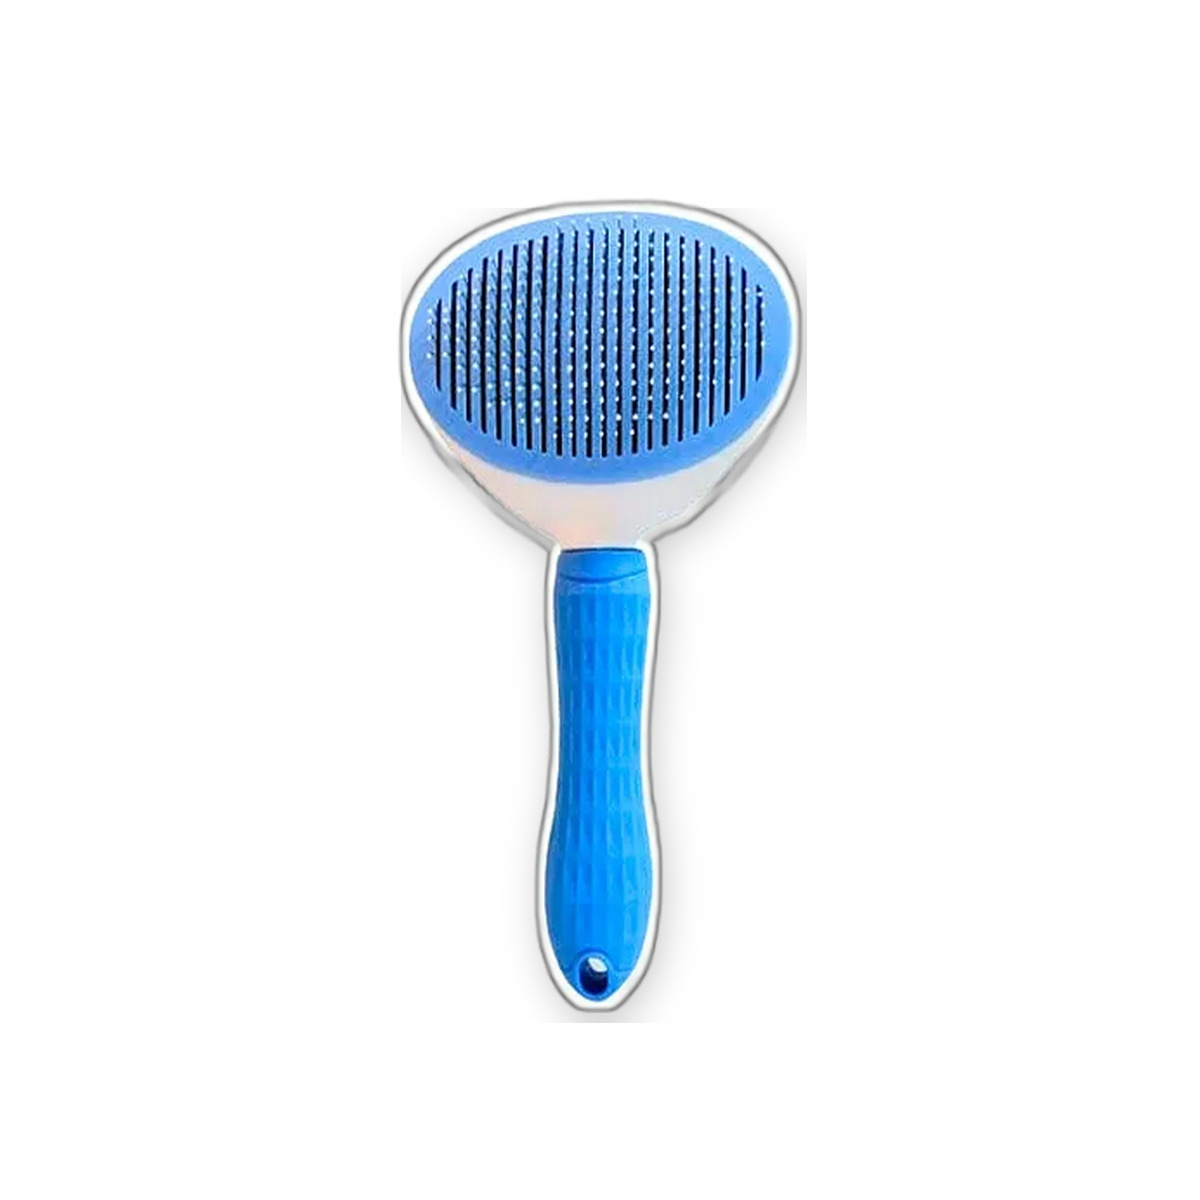
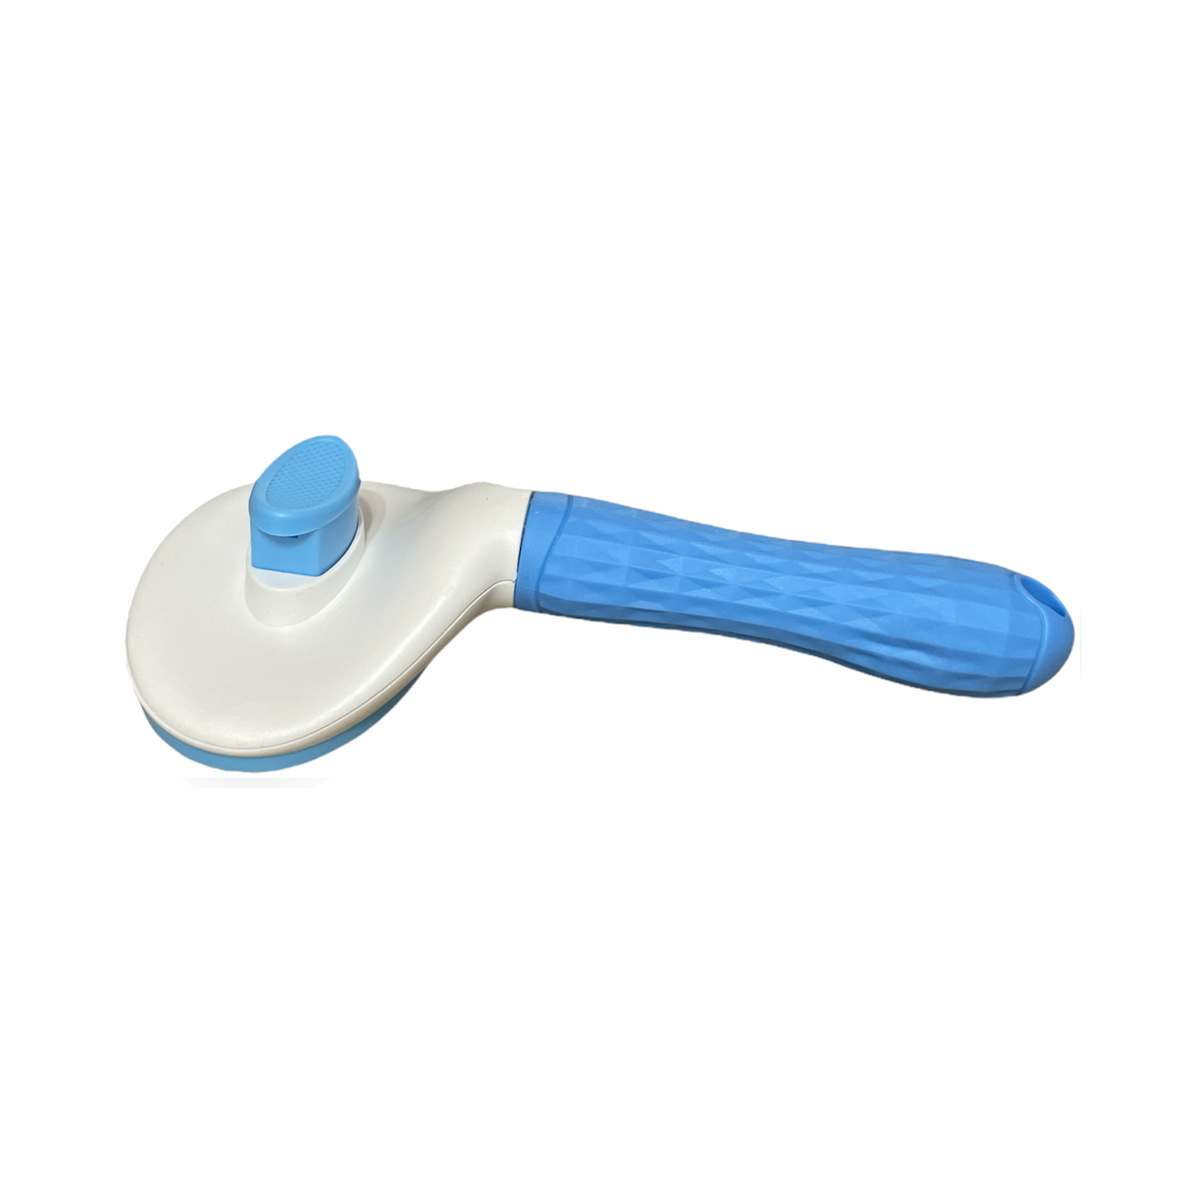
chore(shop): remake p289 CleanPet brush packshots + w4-v4

Changed region(s): [[0.0925, 0.1542, 0.8942, 0.8633]]

diff --git a/packages/api/src/data/shop-batch-multi-wave4-products.selftest.ts b/packages/api/src/data/shop-batch-multi-wave4-products.selftest.ts
@@ -1,5 +1,5 @@
 /**
- * Shop Batch-multi wave 4/5 — 10 SKUs, zero margin, 3-angle batch-multi-w4-v3 galleries.
+ * Shop Batch-multi wave 4/5 — 10 SKUs, zero margin, 3-angle batch-multi-w4-v4 galleries.
  * Run: npx tsx src/data/shop-batch-multi-wave4-products.selftest.ts
  */
 import assert from 'node:assert/strict';
@@ -73,7 +73,7 @@ async function main() {
   assert.equal(seed.SHOP_BATCH_MULTI_WAVE4_PRODUCTS[8]?.slug, 'grooming-mojan-pet-brush');
   assert.equal(seed.SHOP_BATCH_MULTI_WAVE4_PRODUCTS[9]?.id, 'p289');
   assert.equal(seed.SHOP_BATCH_MULTI_WAVE4_PRODUCTS[9]?.slug, 'grooming-dog-shedding-brush-hair-release-button');
-  assert.equal(seed.SHOP_BATCH_MULTI_WAVE4_CACHE_BUST, 'batch-multi-w4-v3');
+  assert.equal(seed.SHOP_BATCH_MULTI_WAVE4_CACHE_BUST, 'batch-multi-w4-v4');
   assert.ok(
     !seed.SHOP_BATCH_MULTI_WAVE4_PRODUCTS.some((p) => (HELD_SHOP_SLUGS as readonly string[]).includes(p.slug)),
     'no held slugs remain in batch-multi wave 4 products'
@@ -163,7 +163,7 @@ async function main() {
   for (const row of rows) {
     assert.equal(row.price_toman, EXPECTED_PRICE[row.slug], `${row.slug} exact MANIFEST price`);
     assert.equal(row.cost_toman, row.price_toman, `${row.slug} margin 0`);
-    assert.match(row.image, new RegExp(`/pepito/uploads/${row.slug}\\.jpg\\?v=batch-multi-w4-v3$`));
+    assert.match(row.image, new RegExp(`/pepito/uploads/${row.slug}\\.jpg\\?v=batch-multi-w4-v4$`));
     assert.equal(row.badge, 'new');
     assert.equal(Number(row.featured), 1);
     assert.equal(Number(row.in_stock), 1);
@@ -177,8 +177,8 @@ async function main() {
       .filter(Boolean);
     assert.equal(gallery.length, 3, `${row.slug} stores 3 gallery URLs`);
     assert.equal(gallery[0], row.image, `${row.slug} first gallery src is cover`);
-    assert.ok(gallery[1]?.includes(`${row.slug}-2.jpg?v=batch-multi-w4-v3`), `${row.slug} angle 2`);
-    assert.ok(gallery[2]?.includes(`${row.slug}-3.jpg?v=batch-multi-w4-v3`), `${row.slug} angle 3`);
+    assert.ok(gallery[1]?.includes(`${row.slug}-2.jpg?v=batch-multi-w4-v4`), `${row.slug} angle 2`);
+    assert.ok(gallery[2]?.includes(`${row.slug}-3.jpg?v=batch-multi-w4-v4`), `${row.slug} angle 3`);
     assert.ok('__titleEn' in params, `${row.slug} stores titleEn key`);
     if (NO_INVENTED_WEIGHT.has(row.slug)) {
       assert.equal(params['وزن'], undefined, `${row.slug} must not invent وزن`);
@@ -194,8 +194,8 @@ async function main() {
     .all() as Array<{ slug: string }>;
   assert.equal(cats.length, 3, 'wave-4 categories are seeded');
 
-  const bust = readFileSync(join(repoRoot, 'tmp/cache-bust-shop-batch-multi-w4-v3'), 'utf8');
-  assert.match(bust, /batch-multi-w4-v3/, 'cache-bust marker present');
+  const bust = readFileSync(join(repoRoot, 'tmp/cache-bust-shop-batch-multi-w4-v4'), 'utf8');
+  assert.match(bust, /batch-multi-w4-v4/, 'cache-bust marker present');
 
   const imageNames = SHOP_BATCH_MULTI_WAVE4_SLUGS.flatMap((slug) => [
     `${slug}.jpg`,

diff --git a/packages/web/src/data/shopGallery.selftest.ts b/packages/web/src/data/shopGallery.selftest.ts
@@ -151,9 +151,9 @@ for (const [id, slug, price] of batchMultiW4) {
   assert.equal(item.priceToman, price, `${id} MANIFEST price`);
   const shots = productGallery(item);
   assert.equal(shots.length, 3, `${id} gallery has 3 unique angles`);
-  assert.ok(shots[0].includes(`${slug}.jpg?v=batch-multi-w4-v3`), `${id} front is batch-multi-w4-v3`);
-  assert.ok(shots[1].includes(`${slug}-2.jpg?v=batch-multi-w4-v3`), `${id} angle 2 is batch-multi-w4-v3`);
-  assert.ok(shots[2].includes(`${slug}-3.jpg?v=batch-multi-w4-v3`), `${id} angle 3 is batch-multi-w4-v3`);
+  assert.ok(shots[0].includes(`${slug}.jpg?v=batch-multi-w4-v4`), `${id} front is batch-multi-w4-v4`);
+  assert.ok(shots[1].includes(`${slug}-2.jpg?v=batch-multi-w4-v4`), `${id} angle 2 is batch-multi-w4-v4`);
+  assert.ok(shots[2].includes(`${slug}-3.jpg?v=batch-multi-w4-v4`), `${id} angle 3 is batch-multi-w4-v4`);
   assert.doesNotMatch(shots.join(' '), /purple|5c4d91|بنفش/i, `${id} gallery has no purple asset`);
 }
 assert.ok(getProduct('cat-accessories-hannapet-double-wooden-bowl-stand'), 'Hannapet wooden bowl stand is in catalog');

diff --git a/packages/api/src/data/shop-batch-multi-wave4-products.ts b/packages/api/src/data/shop-batch-multi-wave4-products.ts
@@ -2,7 +2,7 @@
  * PetDate shop Batch-multi wave 4/5 — 10 live SKUs (p280–p289).
  * Additive, idempotent upsert by slug. Margin 0 (cost_toman = price_toman).
  * Seller copy is پت دیت شاپ only. Do not invent missing weights.
- * Gallery cache-bust is batch-multi-w4-v3 (wave 1–3 stay on their own busts).
+ * Gallery cache-bust is batch-multi-w4-v4 (wave 1–3 stay on their own busts).
  * Slug typo is historical: hannapet-silicone-h-harness-sizr-m (sizr not size).
  */
 import { getDb } from '../db';
@@ -10,7 +10,7 @@ import { withShopImagesParam } from './shop-product-images';
 import { HELD_SHOP_SLUGS, SHOP_BATCH_MULTI_WAVE4_SLUGS } from './shop-zero-margin-slugs';
 
 const P = '/pepito/uploads';
-export const SHOP_BATCH_MULTI_WAVE4_CACHE_BUST = "batch-multi-w4-v3";
+export const SHOP_BATCH_MULTI_WAVE4_CACHE_BUST = "batch-multi-w4-v4";
 
 function multiGallery(slug: string): { image: string; images: string[] } {
   const images = [

diff --git a/packages/api/src/data/shop-live-catalog.selftest.ts b/packages/api/src/data/shop-live-catalog.selftest.ts
@@ -377,7 +377,7 @@ async function main() {
   );
   assert.match(
     String(p289.image),
-    /grooming-dog-shedding-brush-hair-release-button\.jpg\?v=batch-multi-w4-v3$/
+    /grooming-dog-shedding-brush-hair-release-button\.jpg\?v=batch-multi-w4-v4$/
   );
   assert.match(
     String(p299.image),

diff --git a/packages/web/src/data/shopBatchMultiWave4Products.ts b/packages/web/src/data/shopBatchMultiWave4Products.ts
@@ -1,7 +1,7 @@
 import type { ShopProduct } from './shopCatalog';
 
 const P = '/pepito/uploads';
-const V = "batch-multi-w4-v3";
+const V = "batch-multi-w4-v4";
 
 function gallery(slug: string): { image: string; images: string[] } {
   const images = [

diff --git a/scripts/gen-shop-batch-multi-wave4.py b/scripts/gen-shop-batch-multi-wave4.py
@@ -283,7 +283,7 @@ def write_api() -> None:
  * PetDate shop Batch-multi wave 4/5 — 10 live SKUs (p280–p289).
  * Additive, idempotent upsert by slug. Margin 0 (cost_toman = price_toman).
  * Seller copy is پت دیت شاپ only. Do not invent missing weights.
- * Gallery cache-bust is batch-multi-w4-v3 (wave 1–3 stay on their own busts).
+ * Gallery cache-bust is batch-multi-w4-v4 (wave 1–3 stay on their own busts).
  * Slug typo is historical: hannapet-silicone-h-harness-sizr-m (sizr not size).
  */
 import {{ getDb }} from '../db';
@@ -480,7 +480,7 @@ def write_price_index() -> None:
 
 
 def write_cache_bust() -> None:
-    dest = ROOT / "tmp/cache-bust-shop-batch-multi-w4-v3"
+    dest = ROOT / "tmp/cache-bust-shop-batch-multi-w4-v4"
     dest.write_text(f"{CACHE_BUST}\n")
 
 
@@ -490,8 +490,8 @@ def main() -> None:
         raise SystemExit(f"missing descriptions: {missing}")
     if [p["proposedId"] for p in PRODUCTS] != [f"p{i}" for i in range(280, 290)]:
         raise SystemExit("wave 4 ids must be p280–p289 in order")
-    if CACHE_BUST != "batch-multi-w4-v3":
-        raise SystemExit("wave 4 cache bust must be batch-multi-w4-v3")
+    if CACHE_BUST != "batch-multi-w4-v4":
+        raise SystemExit("wave 4 cache bust must be batch-multi-w4-v4")
     if PRODUCTS[0]["slug"] != "dog-accessories-hannapet-silicone-h-harness-sizr-m":
         raise SystemExit("p280 slug must keep historical sizr typo")
     write_web()
